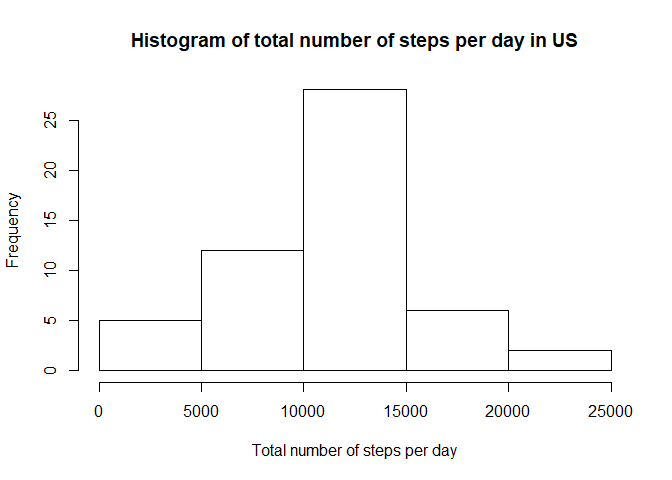
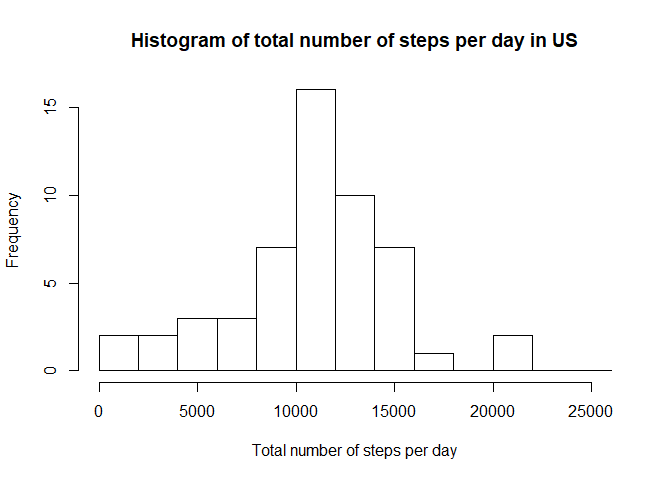
summit project fix3

diff --git a/PA1_template.html b/PA1_template.html
@@ -140,8 +140,9 @@ FUN = sum)</code></pre>
 <div id="make-a-histogram-of-the-total-number-of-steps-taken-each-day" class="section level3">
 <h3>2.Make a histogram of the total number of steps taken each day</h3>
 <pre class="r"><code>hist(totalStepsPerDay$steps,xlab = &quot;Total number of steps per day&quot;,
-     main = &quot;Histogram of total number of steps per day in US&quot;)</code></pre>
[1 lines of base64/hex data omitted]
+     main = &quot;Histogram of total number of steps per day in US&quot;,
+     breaks = seq(0, 26000, 2000))</code></pre>
[1 lines of base64/hex data omitted]
 </div>
 <div id="calculate-and-report-the-mean-and-median-of-the-total-number-of-steps-taken-per-day" class="section level3">
 <h3>3.Calculate and report the mean and median of the total number of steps taken per day</h3>
@@ -194,8 +195,9 @@ for (i in 1:nrow(fill_activity)) {
 <pre class="r"><code>totalStepsPerDayFill &lt;- aggregate(steps ~ date, data = fill_activity,
                               FUN = sum)
 hist(totalStepsPerDayFill$steps,xlab = &quot;Total number of steps per day&quot;,
-     main = &quot;Histogram of total number of steps per day (fill)&quot;)</code></pre>
[1 lines of base64/hex data omitted]
+     main = &quot;Histogram of total number of steps per day (fill)&quot;,
+     breaks = seq(0, 26000, 2000))</code></pre>
[1 lines of base64/hex data omitted]
 </div>
 <div id="calculate-and-report-the-mean-and-median-total-number-of-steps-taken-per-day" class="section level3">
 <h3>Calculate and report the mean and median total number of steps taken per day</h3>

diff --git a/PA1_template.md b/PA1_template.md
@@ -24,7 +24,8 @@ FUN = sum)
 
 ```r
 hist(totalStepsPerDay$steps,xlab = "Total number of steps per day",
-     main = "Histogram of total number of steps per day in US")
+     main = "Histogram of total number of steps per day in US",
+     breaks = seq(0, 26000, 2000))
 ```
 
 ![](PA1_template_files/figure-html/histogram1-1.png)<!-- -->
@@ -101,7 +102,8 @@ for (i in 1:nrow(fill_activity)) {
 totalStepsPerDayFill <- aggregate(steps ~ date, data = fill_activity,
                               FUN = sum)
 hist(totalStepsPerDayFill$steps,xlab = "Total number of steps per day",
-     main = "Histogram of total number of steps per day (fill)")
+     main = "Histogram of total number of steps per day (fill)",
+     breaks = seq(0, 26000, 2000))
 ```
 
 ![](PA1_template_files/figure-html/histogram2-1.png)<!-- -->
